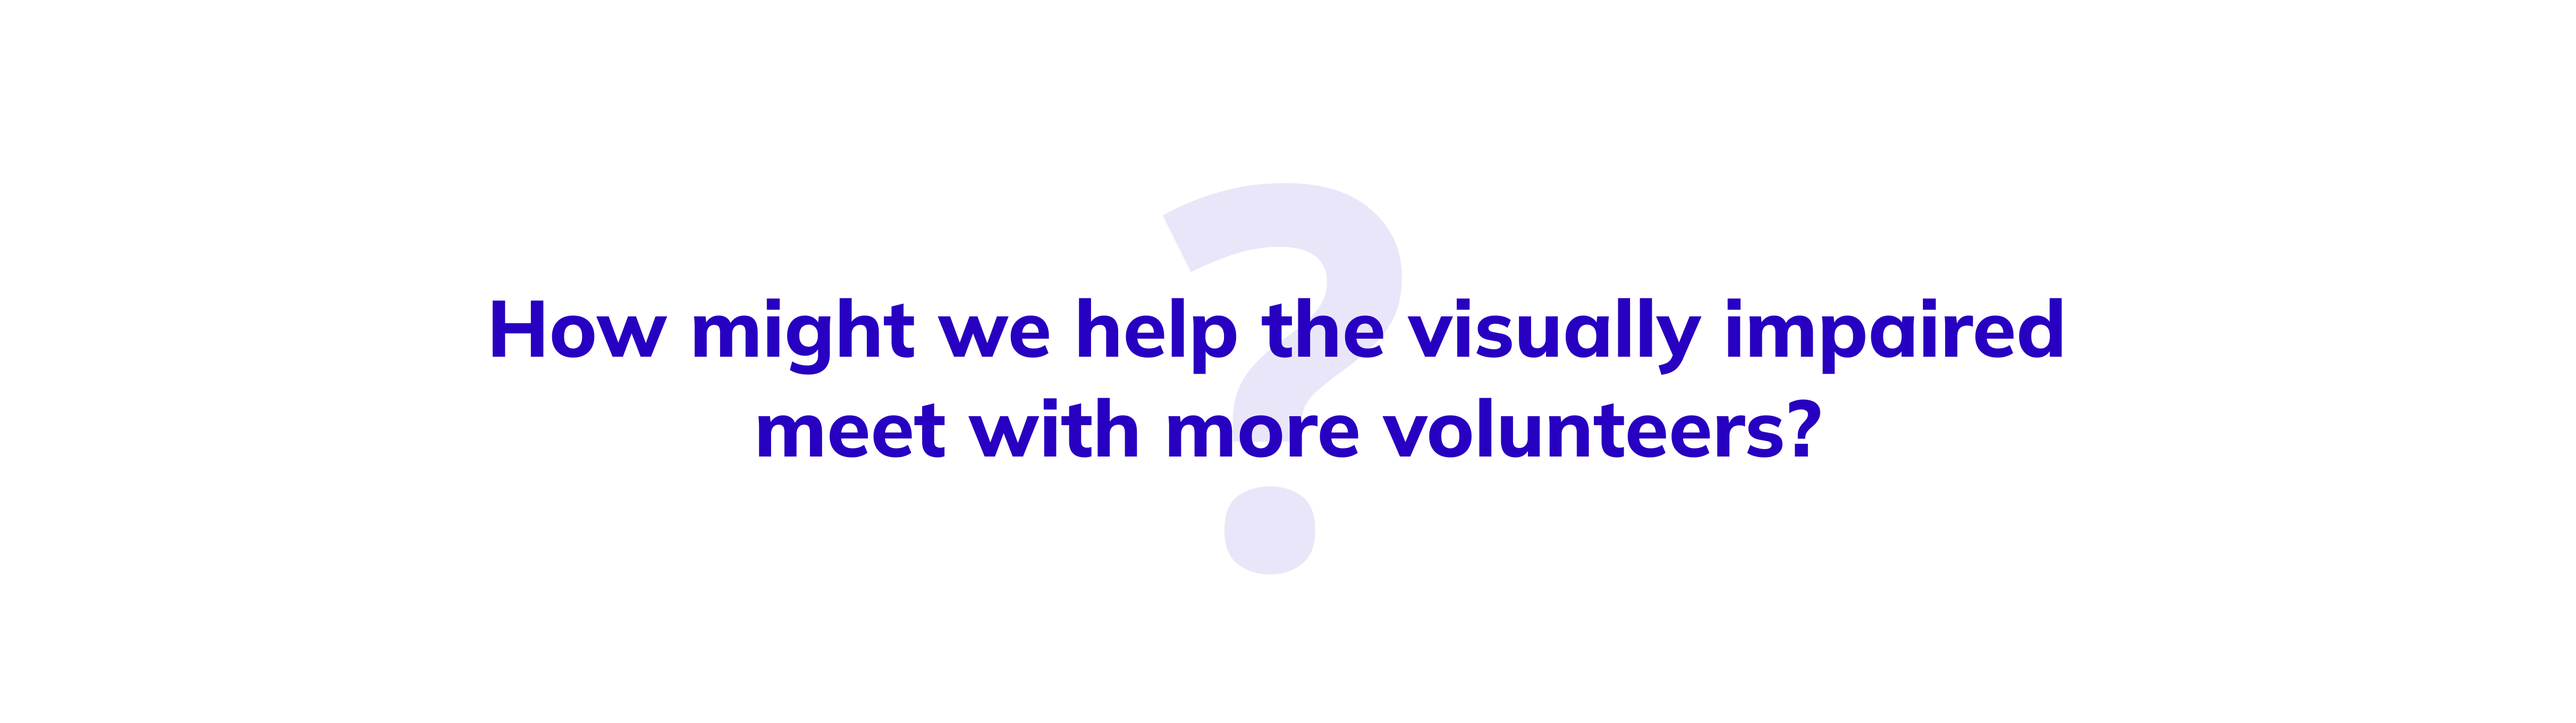
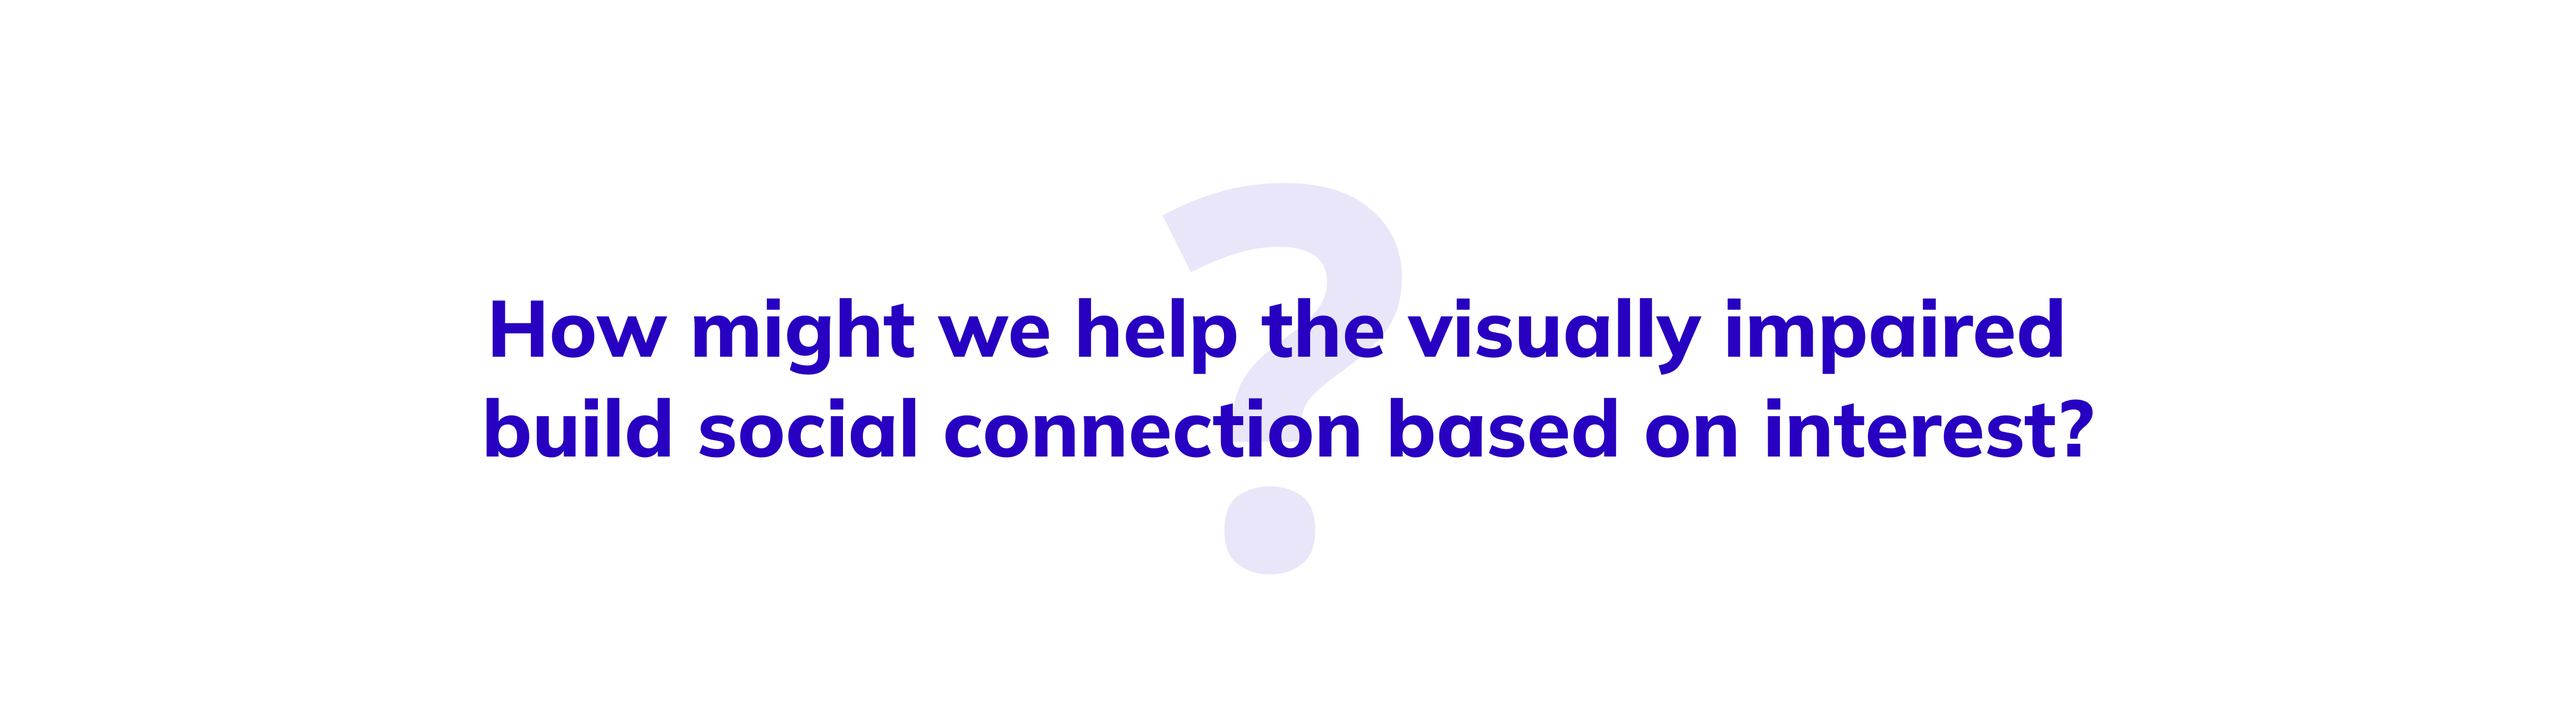
Add files via upload

Changed region(s): [[0.1869, 0.5551, 0.81, 0.6476]]

diff --git a/JS/interaction.js b/JS/interaction.js
@@ -1,24 +1,67 @@
+//preloader
+
+
+setTimeout(function(){ 
+  $(".loader-wrapper").fadeOut(200);
+  $("body").removeClass("preload");
+}, 4000); 
+
+          //fade-in-effect
+
+          const appear = document.querySelector('.appear'); 
+          const cb = function(entries){
+            entries.forEach(entry => {
+              if(entry.isIntersecting){
+                entry.target.classList.add('inview');
+                entry.unobserve(entry.target)
+              }
+            });
+          }
+          const io3 = new IntersectionObserver(cb);
+          io3.observe(appear);
+
+          //
+
+          const items = document.querySelectorAll('.appear2');
+
+          const active = function(entries){
+              entries.forEach(entry => {
+                  if(entry.isIntersecting){
+                  entry.target.classList.add('inview2'); 
+                  }else{
+                      entry.target.classList.remove('inview2'); 
+                  }
+              });
+          }
+          const io2 = new IntersectionObserver(active);
+          for(let i=0; i < items.length; i++){
+              io2.observe(items[i]);
+          }
+
+          //
+
+
 $(document).ready(function () {
 
           const funFacts = [
-            "I dived into the ocean with one breath to a depth of 90 feet (after systematical training)",
-            "I spend most of my free time in the climbing gym",
+            "I dived into the ocean with one breath to a depth of 90 feet in 2019",
+            "I spend most of my free time climbing",
             "I easily get into flow states when I’m designing, climbing, and cooking",
             "My favorite season is autumn",
-            "I’m an introvert but feel energetic after talking to interesting people and hearing new ideas",
-            "My MBTI is INFJ",
+            "I’m an introvert but feel energetic after talking to interesting people and receiving new ideas",
             "I love the outdoors, but I’m still scared when seeing an insect in my tent",
             "I cried when I saw my design was launched during my first internship",
-            "I have lived in four cities since I was born: Wuhan, Beijing, Shanghai, Ann Arbor",
-            "I enjoy observing people on the street when I’m alone",
+            "Moving from Beijing to Ann Abor, it's my first time living in a small town, but I love it :)",
+            "I enjoy observing people on streets when I’m alone",
             "My favourite artist is James Turrell",
-            "My favourite podcast is Design Matters with Debbie Millman"
+            "My favourite podcast is Design Matters with Debbie Millman",
+            "My dream job in middle school was to become an architect",
+            "I can easily remember the past roads even though I only walked through them once"
           ];
 
           var randomFactIndex = Math.floor(Math.random() * funFacts.length);
-          $('#preloader-title').text("Fun fact about Lynn #"+(randomFactIndex+1));
+          $('#preloader-title').text("Fun fact about Lynn #"+(randomFactIndex+3));
           $('#preloader-content').html(funFacts[randomFactIndex]);
-
 
 
 
@@ -52,18 +95,12 @@ $(document).ready(function () {
             }, function(){
             $("#brand-background").css("background", "#EEEEEE");
           });
-  
-  
+
+
   
   });
 
 
-//preloader
-
-$(window).on("load",function(){
-     $(".loader-wrapper").fadeOut(200);
-     $("body").removeClass("preload");
-});
 
 //menu
 
@@ -78,52 +115,6 @@ for (let i = 0; i < menuLength; i++) {
 }
 
 
-//fade-in-effect
-
-const appear = document.querySelector('.appear'); 
-const cb = function(entries){
-  entries.forEach(entry => {
-    if(entry.isIntersecting){
-      entry.target.classList.add('inview');
-    }else{
-      entry.target.classList.remove('inview');
-    }
-  });
-}
-const io = new IntersectionObserver(cb);
-io.observe(appear);
-
-//
-
-const items = document.querySelectorAll('.appear2');
-
-const active = function(entries){
-    entries.forEach(entry => {
-        if(entry.isIntersecting){
-        entry.target.classList.add('inview2'); 
-        }else{
-            entry.target.classList.remove('inview2'); 
-        }
-    });
-}
-const io2 = new IntersectionObserver(active);
- for(let i=0; i < items.length; i++){
-    io2.observe(items[i]);
- }
-
- //
-
-const appear3 = document.querySelector('.appear3'); 
-const cb3 = function(entries){
-  entries.forEach(entry => {
-    if(entry.isIntersecting){
-      entry.target.classList.add('inview');
-      entry.unobserve(entry.target)
-    }
-  });
-}
-const io3 = new IntersectionObserver(cb3);
-io3.observe(appear3);
 
 
 

diff --git a/handinhand.html b/handinhand.html
@@ -248,13 +248,14 @@
             <div>
              <hr class="hr-work">            
             </div>                 
-          </div>  
-
+          </div>
+          
+        
 
           <section id="info-research" class="content-block">
             <h3 class="h3-work">Information Research</h3>
             <div class="paragraph-block">
-                <p class="h4-work">There is an unmet need for social activities for the visually impaired</p> 
+                <p class="h4-work">There is <span class="highlight-text">an unmet need for social activities</span> for the visually impaired</p> 
                 <ul class="p-work ul-para">
                   <li class="li-work">65% of the visually impaired want to meet with new friends through Internet, but only 12% of them are fulfilled, according to a survey of the visually impaired people released by Tencent in 2019.</li>
                   <li class="li-work">The employment rate of the visually impaired in China is less than 30%, and 80% of the visually impaired individuals choose massage as their occupation, which usually requires seven days of full-time work and further leads to their separation from society.</li>
@@ -268,14 +269,14 @@
               <p class="p-work">I interviewed five visually impaired people of different ages and occupations about their life and social activities.  Then, I participated in volunteer jobs in Beijing to assist visually impaired people in the running to understand their needs and pain point further.</p>
               
               <div style="margin-top: 20px;">
-                <h4 class="h4-work">Insight 01.&nbsp; The visually impaired meet new friends mainly by participating in activities organized by non-profit organizations or schools</h4>
+                <h4 class="h4-work">Insight 01.&nbsp; The visually impaired meet new friends mainly by participating in <span class="highlight-text">activities organized by non-profit organizations or schools</span></h4>
                 <ul class="p-work ul-para">
                     <li class="li-work">During the interviews, many visually impaired people mentioned their involvement in specific organizations or activities, based on interest, work, etc., when referring to their social experiences.</li>
                 </ul>
               </div>                    
 
               <div style="margin-top: 20px;">
-                <h4 class="h4-work">Insight 02. &nbsp;The visually impaired need 1-on-1 accompany for real-world activities</h4>   
+                <h4 class="h4-work">Insight 02. &nbsp;The visually impaired <span class="highlight-text">need 1-on-1 accompany for real-world activities</span></h4>   
                 <ul class="p-work ul-para">
                   <li class="li-work">When visually impaired people described their personal hobbies or experiences of learning skills, most talked about being accompanied one-on-one by others.</li>
                 </ul><br>   
@@ -295,7 +296,7 @@
           </section>
 
           <section id="ideation" class="content-block">
-            <h3 class="h3-work text-nonetrans">How might we help the visually impaired meet with more volunteers?</h3>
+            <h3 class="h3-work text-nonetrans">How might we help the visually impaired <span class="highlight-text">build social connection based on interest?</span></h3>
             <div class="paragraph-block">
               <p class="h4-work">Concept: A mobile application that connects the visual-impaired and volunteers based on interests</p>
             </div>

diff --git a/css/animation.css b/css/animation.css
@@ -137,8 +137,8 @@ a:hover {
   opacity: 1;
   -webkit-transform: none;
           transform: none;
-  -webkit-transition-delay: 0.4s;
-          transition-delay: 0.4s;
+  -webkit-transition-delay: 4.2s;
+          transition-delay: 4.2s;
 }
 
 .appear2 {
@@ -156,18 +156,18 @@ a:hover {
 }
 
 .appear2.inview2:nth-child(1) {
-  -webkit-transition-delay: 0.1s;
-          transition-delay: 0.1s;
-}
-
-.appear2.inview2:nth-child(2) {
   -webkit-transition-delay: 0.2s;
           transition-delay: 0.2s;
 }
 
+.appear2.inview2:nth-child(2) {
+  -webkit-transition-delay: 0.4s;
+          transition-delay: 0.4s;
+}
+
 .appear2.inview2:nth-child(3) {
-  -webkit-transition-delay: 0.3s;
-          transition-delay: 0.3s;
+  -webkit-transition-delay: 0.6s;
+          transition-delay: 0.6s;
 }
 
 .appear2.inview2:nth-child(4) {

diff --git a/index.html b/index.html
@@ -97,10 +97,12 @@
         <h1 class="h1-home appear">
           Design To <br> Drive Meaningful Changes
         </h1>
-        <div><hr class="hr-work"></div>
+
         <p class="h2-home">
           Here’s Lynn, a product designer who enjoys solving complex challenges and leverages design thinking to break barriers in the status quo. 
         </p>
+
+        <div><hr class="hr-work"></div>
       </div>
 
 
